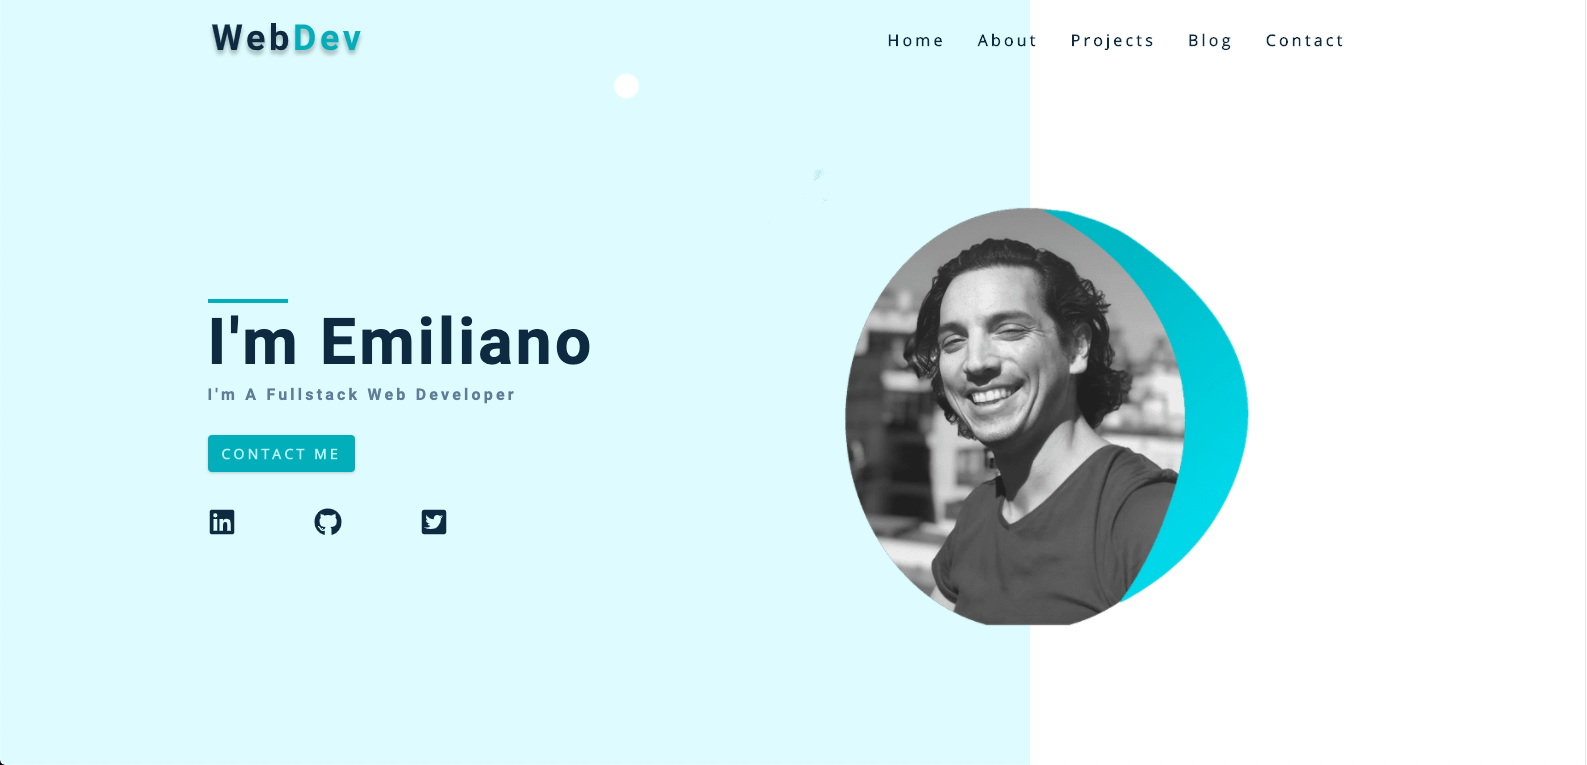
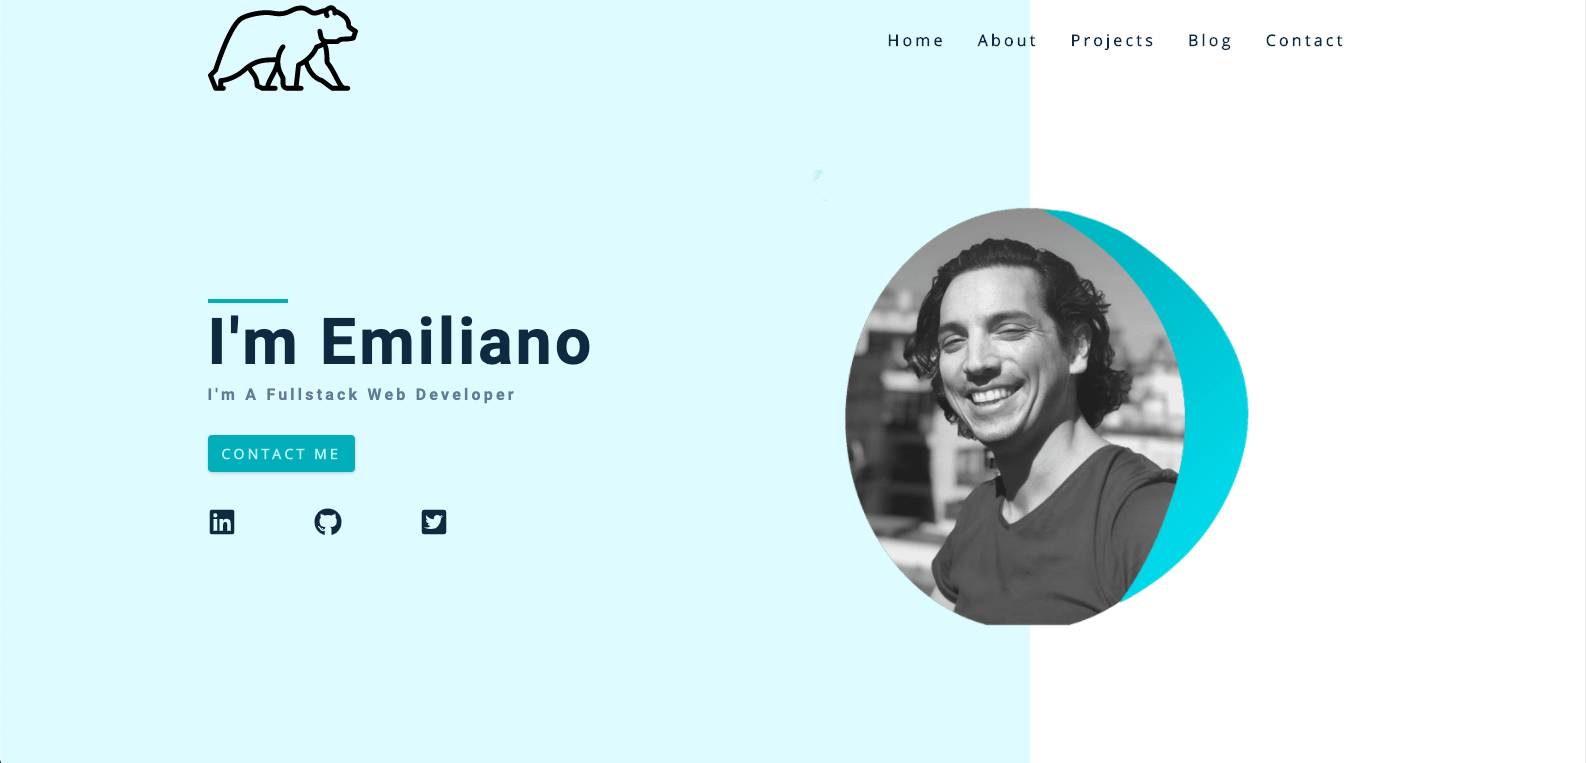
testing twitter card

diff --git a/src/components/SEO.js b/src/components/SEO.js
@@ -18,11 +18,11 @@ const query = graphql`
 `
 
 const SEO = ({title, description}) => {
-  const {site} = useStaticQuery(query);
+  const { site } = useStaticQuery(query);
   const {siteDesc, siteTitle, siteUrl, image, twitterUsername} = site.siteMetadata;
 
   return (
-    <Helmet htmlAttributes={{lang:"en"}} title={`${title} | ${siteTitle}`}>
+    <Helmet htmlAttributes={{ lang:"en" }} title={`${title} | ${siteTitle}`}>
       <meta name="description" content={description || siteDesc} />
       <meta name="image" content={image} />
       {/* {Twitter Card} */}

diff --git a/src/css/main.css b/src/css/main.css
@@ -230,7 +230,8 @@ Navbar
   align-items: center;
 }
 .nav-header img {
-  margin-bottom: 0.375rem;
+  margin-top: 2rem;
+  margin-bottom: 1rem;
 }
 .toggle-btn {
   font-size: 2rem;
